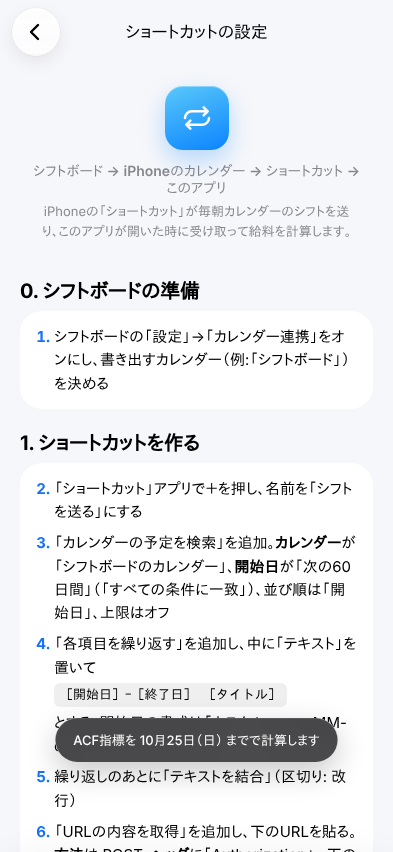
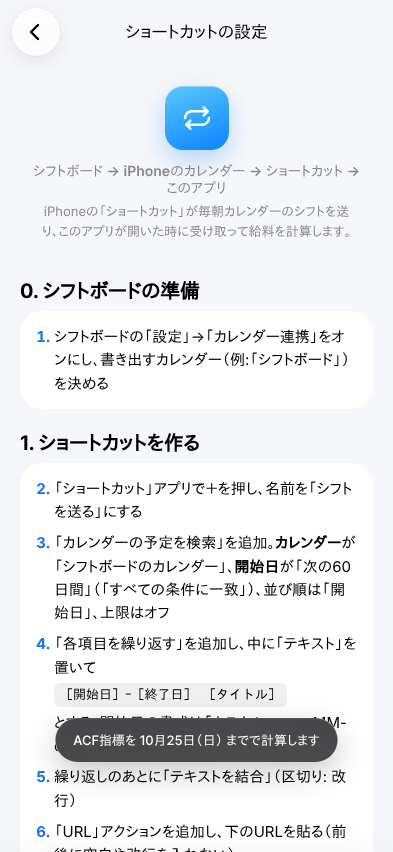
fix(shift guide): avoid the Shortcuts 'could not convert text to URL' error
Use a separate URL action before Get Contents of URL and explain how to clear the
auto-filled Combined Text from the URL field.

Claude-Session: https://claude.ai/code/session_01QcLHSFmCgP6AMvjxwyHjWT

Changed region(s): [[0.1527, 0.946, 0.916, 1.0]]

diff --git a/assets/app.c22a757ddbf1.js b/assets/app.c22a757ddbf1.js
@@ -7830,12 +7830,14 @@ async function openShiftRelayGuide(){
       <li>「カレンダーの予定を検索」を追加。<b>カレンダー</b>が「シフトボードのカレンダー」、<b>開始日</b>が「次の60日間」（「すべての条件に一致」）、並び順は「開始日」、上限はオフ</li>
       <li>「各項目を繰り返す」を追加し、中に「テキスト」を置いて<br><code>［開始日］-［終了日］ ［タイトル］</code><br>とする。開始日の書式は「カスタム: yyyy-MM-dd HH:mm」、終了日は「カスタム: HH:mm」</li>
       <li>繰り返しのあとに「テキストを結合」（区切り: 改行）</li>
-      <li>「URLの内容を取得」を追加し、下のURLを貼る。<b>方法</b>は POST、<b>ヘッダ</b>に「Authorization」＝下の鍵、<b>本文を要求</b>は JSON で、キー「text」の値に「結合されたテキスト」</li>
+      <li>「URL」アクションを追加し、下のURLを貼る（前後に空白や改行を入れない）</li>
+      <li>「URLの内容を取得」を追加。URLの欄が青い「URL」になっていることを確認（「結合されたテキスト」になっていたら、押して「消去」→「URL」を選ぶ）。<b>方法</b>は POST、<b>ヘッダ</b>に「Authorization」＝下の鍵、<b>本文を要求</b>は JSON で、キー「text」の値に「結合されたテキスト」</li>
     </ol>
+    <p class="settings-section-footer">「テキストをURLに変換できませんでした」と出た時は、URLの欄にシフトの文字（結合されたテキスト）が入っています。URLの欄だけを上の「URL」にしてください。</p>
     <div class="group relay-copy"><button type="button" class="row press" id="copyUrl"><div class="row-main"><div class="row-title">URL</div><div class="row-sub relay-code">${esc(url)}</div></div><span class="pill-btn">コピー</span></button><button type="button" class="row press" id="copyAuth"><div class="row-main"><div class="row-title">Authorization（鍵）</div><div class="row-sub relay-code">Bearer ${esc(key.slice(0,6))}…${esc(key.slice(-4))}</div></div><span class="pill-btn">コピー</span></button></div>
     <p class="settings-section-footer">鍵はこの端末で作った合言葉です。人に見せないでください。鍵を変えると、ショートカットの鍵も入れ直す必要があります。</p>
     <h2 class="reg-head">2. 毎日自動で動かす</h2>
-    <ol class="shift-steps" start="7"><li>ショートカットの「オートメーション」→＋→「時刻」→ 毎日 5:00（好きな時刻）</li><li>「すぐに実行」を選び、「シフトを送る」を選ぶ</li><li>一度「シフトを送る」を手で実行し、下の「受け取りを確認」を押す</li></ol>
+    <ol class="shift-steps" start="8"><li>ショートカットの「オートメーション」→＋→「時刻」→ 毎日 5:00（好きな時刻）</li><li>「すぐに実行」を選び、「シフトを送る」を選ぶ</li><li>一度「シフトを送る」を手で実行し、下の「受け取りを確認」を押す</li></ol>
     <p class="settings-section-footer">受け取ったシフトはこのアプリに残るので、働き終わった日の分も給料の計算に入ります。今月すでに働いた分は、最初に一度だけ「その他の取り込み方法」から貼り付けて入れてください。</p>
     <div class="group"><button type="button" class="row press reg-add" id="relayTest"><span class="reg-add-icon" aria-hidden="true">${icon('check')}</span><div class="row-main"><div class="row-title">受け取りを確認</div></div></button><button type="button" class="row press" id="relayRekey"><div class="row-main"><div class="row-title">鍵を作り直す</div><div class="row-sub">鍵が人に知られた時だけ</div></div><span class="chev">${icon('chevronRight')}</span></button></div>
     <p class="settings-section-footer">受け取ったシフトは、時給×働いた時間（休憩ルールで休憩を引く・深夜は25%増し）＋交通費（往復・月の上限あり）で計算し、勤務先・勤務月ごとの給与（予定）にします。シフトは受け渡しサーバーに最後の1回分だけ保管し、30日で消えます。</p>`,root=>{

diff --git a/src/js/salary-v18.js b/src/js/salary-v18.js
@@ -226,12 +226,14 @@ async function openShiftRelayGuide(){
       <li>「カレンダーの予定を検索」を追加。<b>カレンダー</b>が「シフトボードのカレンダー」、<b>開始日</b>が「次の60日間」（「すべての条件に一致」）、並び順は「開始日」、上限はオフ</li>
       <li>「各項目を繰り返す」を追加し、中に「テキスト」を置いて<br><code>［開始日］-［終了日］ ［タイトル］</code><br>とする。開始日の書式は「カスタム: yyyy-MM-dd HH:mm」、終了日は「カスタム: HH:mm」</li>
       <li>繰り返しのあとに「テキストを結合」（区切り: 改行）</li>
-      <li>「URLの内容を取得」を追加し、下のURLを貼る。<b>方法</b>は POST、<b>ヘッダ</b>に「Authorization」＝下の鍵、<b>本文を要求</b>は JSON で、キー「text」の値に「結合されたテキスト」</li>
+      <li>「URL」アクションを追加し、下のURLを貼る（前後に空白や改行を入れない）</li>
+      <li>「URLの内容を取得」を追加。URLの欄が青い「URL」になっていることを確認（「結合されたテキスト」になっていたら、押して「消去」→「URL」を選ぶ）。<b>方法</b>は POST、<b>ヘッダ</b>に「Authorization」＝下の鍵、<b>本文を要求</b>は JSON で、キー「text」の値に「結合されたテキスト」</li>
     </ol>
+    <p class="settings-section-footer">「テキストをURLに変換できませんでした」と出た時は、URLの欄にシフトの文字（結合されたテキスト）が入っています。URLの欄だけを上の「URL」にしてください。</p>
     <div class="group relay-copy"><button type="button" class="row press" id="copyUrl"><div class="row-main"><div class="row-title">URL</div><div class="row-sub relay-code">${esc(url)}</div></div><span class="pill-btn">コピー</span></button><button type="button" class="row press" id="copyAuth"><div class="row-main"><div class="row-title">Authorization（鍵）</div><div class="row-sub relay-code">Bearer ${esc(key.slice(0,6))}…${esc(key.slice(-4))}</div></div><span class="pill-btn">コピー</span></button></div>
     <p class="settings-section-footer">鍵はこの端末で作った合言葉です。人に見せないでください。鍵を変えると、ショートカットの鍵も入れ直す必要があります。</p>
     <h2 class="reg-head">2. 毎日自動で動かす</h2>
-    <ol class="shift-steps" start="7"><li>ショートカットの「オートメーション」→＋→「時刻」→ 毎日 5:00（好きな時刻）</li><li>「すぐに実行」を選び、「シフトを送る」を選ぶ</li><li>一度「シフトを送る」を手で実行し、下の「受け取りを確認」を押す</li></ol>
+    <ol class="shift-steps" start="8"><li>ショートカットの「オートメーション」→＋→「時刻」→ 毎日 5:00（好きな時刻）</li><li>「すぐに実行」を選び、「シフトを送る」を選ぶ</li><li>一度「シフトを送る」を手で実行し、下の「受け取りを確認」を押す</li></ol>
     <p class="settings-section-footer">受け取ったシフトはこのアプリに残るので、働き終わった日の分も給料の計算に入ります。今月すでに働いた分は、最初に一度だけ「その他の取り込み方法」から貼り付けて入れてください。</p>
     <div class="group"><button type="button" class="row press reg-add" id="relayTest"><span class="reg-add-icon" aria-hidden="true">${icon('check')}</span><div class="row-main"><div class="row-title">受け取りを確認</div></div></button><button type="button" class="row press" id="relayRekey"><div class="row-main"><div class="row-title">鍵を作り直す</div><div class="row-sub">鍵が人に知られた時だけ</div></div><span class="chev">${icon('chevronRight')}</span></button></div>
     <p class="settings-section-footer">受け取ったシフトは、時給×働いた時間（休憩ルールで休憩を引く・深夜は25%増し）＋交通費（往復・月の上限あり）で計算し、勤務先・勤務月ごとの給与（予定）にします。シフトは受け渡しサーバーに最後の1回分だけ保管し、30日で消えます。</p>`,root=>{

diff --git a/index.html b/index.html
@@ -38,6 +38,6 @@
 <div class="alert-wrap" id="alertWrap"><div class="alert-box"><div class="alert-content"><div class="alert-title" id="alertTitle"></div><div class="alert-message" id="alertMessage"></div></div><div class="alert-actions" id="alertActions"></div></div></div>
 <div id="calculator"><div class="calc-top"><button type="button" class="calc-cancel" id="calcCancel">キャンセル</button><div id="calcTitle">金額</div><span class="calc-top-spacer"></span></div><div class="calc-expression" id="calcExpression">金額を入力</div><div class="calc-display" id="calcDisplay"><span class="calc-number" id="calcNumber">0</span><span class="calc-unit">円</span></div><div class="calc-assists" aria-label="家計の入力補助"><button type="button" data-calc-tool="discount" aria-expanded="false">割引</button><button type="button" data-calc-tool="add" aria-expanded="false">割合を加算</button><button type="button" data-calc-tool="split" aria-expanded="false">割り勘</button></div><div id="calcTools" class="calc-tools-panel" hidden><h2 id="calcToolHeading"></h2><p id="calcToolBase"></p><label for="calcToolValue" id="calcToolLabel">割合（%）</label><input type="number" inputmode="numeric" id="calcToolValue" min="0" max="100" step="1"><output id="calcToolPreview" aria-live="polite"></output><p id="calcToolNote"></p><div class="calc-tool-actions"><button type="button" id="calcToolCancel">戻る</button><button type="button" id="calcToolApply">計算結果を使う</button></div></div><div class="calc-grid" id="calcGrid"></div><button type="button" class="calc-use" id="calcDone">この金額を使う</button></div>
 <div id="lockScreen"><div class="lock-title">My Money 3.0</div><div class="row-sub" style="margin-top:8px">パスコードを入力</div><div class="lock-dots" id="lockDots"></div><div class="lock-pad" id="lockPad"></div></div>
-<script src="./assets/app.cb94258060b3.js"></script>
+<script src="./assets/app.c22a757ddbf1.js"></script>
 </body>
 </html>
